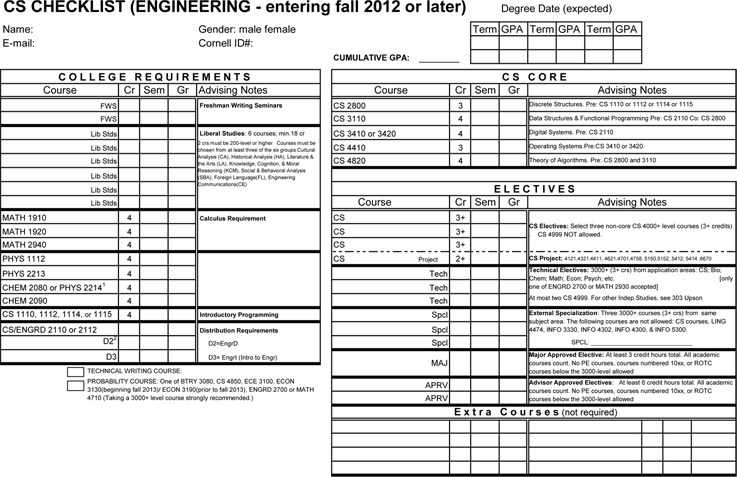
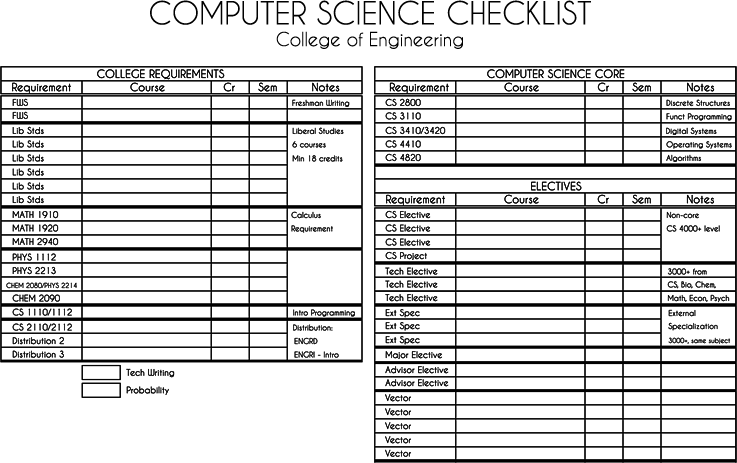
checklist and title graphics

diff --git a/css/style.css b/css/style.css
@@ -16,6 +16,29 @@ body{
     
 }
 
+
+.checklist_box{
+    background-image: url("../img/checklist_box.png");
+    width: 744px;
+    height: 473px;
+    margin: 24px;
+    padding: 20px;
+    
+}
+
+.checklist{
+    
+}
+
+.titlebanner{
+      background-image: url("../img/title_banner.png");
+      width: 827px;
+      height: 68px;
+      margin-top: 20px;
+      
+    
+}
+
 .row {
     margin: auto;
     width: 800px;
@@ -25,7 +48,14 @@ body{
 .row2 {
     margin: auto;
     width: 800px;
-    padding-left: 24px;
+    padding-left: 23px;
+    padding-top: 20px;
+}
+
+.row3 {
+    margin: auto;
+    width: 800px;
+    padding-left: 18px;
     padding-top: 20px;
 }
 

diff --git a/index.php b/index.php
@@ -33,13 +33,15 @@
 </head>
 
 <body>
+ 
+ <div class="titlebanner">
+ </div>
+  
 <div class="container">
 	<div class="row clearfix">
 		<div class="col-md-12 column">
-			<div class="jumbotron">
-				<h1>
-					THIS IS YOUR CHECKLIST
-				</h1>
+			<div class="checklist_box">
+				<img src="img/checklist.png">
 				
 			</div>
 		</div>
@@ -124,7 +126,7 @@
         </div>
         
 	<div class="row clearfix">
-	  <div class="row2" >
+	  <div class="row3" >
 	  <div class="col-md-4 column">
 						<div class= "search"> Search </div>
 			  </div>
